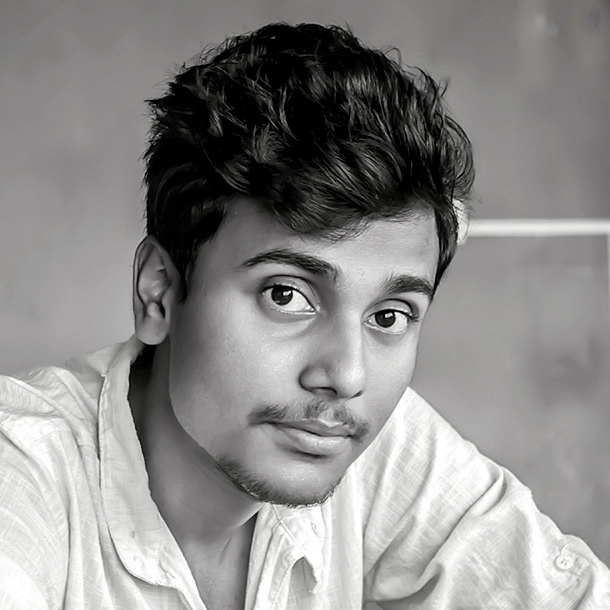
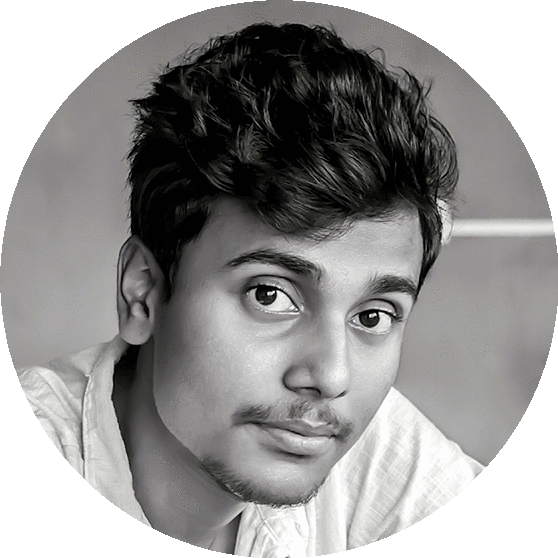
changes

diff --git a/index.html b/index.html
@@ -65,7 +65,7 @@
     <div class="container">
       <!-- Nikhil avatar -->
       <div class="avatar text-center">
-        <img src="assets/img/favicon.gif" class="img-fluid rounded-circle" width="180" height="180"/>
+        <img src="assets/img/avatar.jpg" class="img-fluid rounded-circle" width="180" height="180"/>
         <h3 id="about">Nikhil Gupta</h3>
         <h6>I believe in Technology and Innovation</h6>
         <p class="key">
